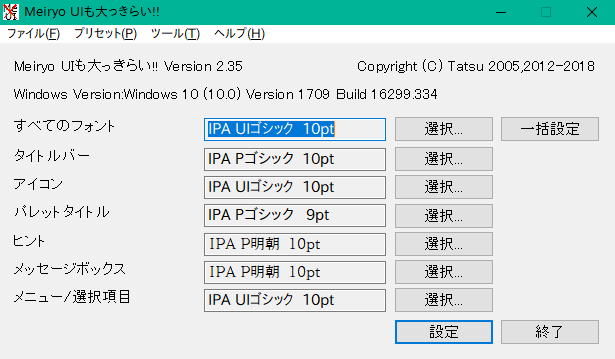
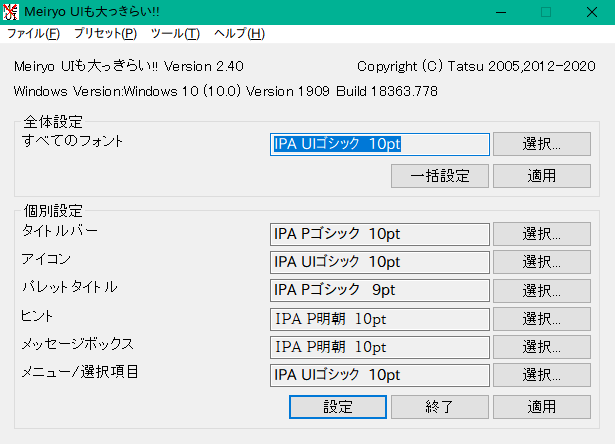
日本語ヘルプをVersion 2.40に合わせて加筆した。

diff --git a/help/ja-jp/contents/02.html b/help/ja-jp/contents/02.html
@@ -1,6 +1,6 @@
 <!DOCTYPE HTML>
 <!--
-noMeiryoUI (C) 2005,2012-2016 Tatsuhiko Shoji
+noMeiryoUI (C) 2005,2012-2020 Tatsuhiko Shoji
 The sources for noMeiryoUI are distributed under the MIT open source license
 -->
 <html>
@@ -29,7 +29,7 @@ The sources for noMeiryoUI are distributed under the MIT open source license
 </p>
 
 <p>
-<img src="noMeiryoUI.PNG" width="615" height="359" alt="Meiryo UIも大っきらい!!画面"><br>
+<img src="noMeiryoUI.PNG" width="615" height="444" alt="Meiryo UIも大っきらい!!画面"><br>
 </p>
 </div>
 <hr>
@@ -40,7 +40,7 @@ The sources for noMeiryoUI are distributed under the MIT open source license
 　フォントを変更する際はフォント名の横にある選択ボタンを押下してください。<br>
 <br>
 　<a href="#FontSel">フォント選択ダイアログ</a>が表示されるので、フォント・フォントサイズ・書式を好みに合わせて設定してください。<br>
-　設定が終わったらOKボタンを押下すると選択したフォントが画面の各部分に設定されます。<br>
+　設定が終わったらOKボタンを押下すると選択したフォントが画面の各部分に設定されてプログラムを終了します。適用ボタンを押下すると選択したフォントが画面の各部分に設定されます。<br>
 </p>
 <p>
 　選択したフォントの中にフォント名が&quot;@&quot;で始まるフォントが存在する場合は選択したフォントが本当に意図したものかどうかの問い合わせダイアログが表示されます。<br>
@@ -52,7 +52,7 @@ The sources for noMeiryoUI are distributed under the MIT open source license
 <h2>2.3 フォントの一括設定</h2>
 <p>
 　一番上に表示されている「すべてのフォント」という項目は画面の各部分のフォントを同じフォント・フォントサイズ・書式で設定するための項目です。<br>
-　フォント名の横の選択ボタンを押下して、<a href="#FontSel">フォント選択ダイアログ</a>からフォントを選択した後、一括設定ボタンを押下すると画面の各部分のフォントが同じフォント・フォントサイズ・書式で設定されます。<br>
+　フォント名の横の選択ボタンを押下して、<a href="#FontSel">フォント選択ダイアログ</a>からフォントを選択した後、一括設定ボタンを押下すると画面の各部分のフォントが同じフォント・フォントサイズ・書式で設定されてプログラムを終了します。適用ボタンを押下すると選択したフォントが画面の各部分に設定されます。<br>
 </p>
 <p>
 　選択したフォントのフォント名が&quot;@&quot;で始まる場合は選択したフォントが本当に意図したものかどうかの問い合わせダイアログが表示されます。<br>

diff --git a/help/ja-jp/contents/01.html b/help/ja-jp/contents/01.html
@@ -1,6 +1,6 @@
 <!DOCTYPE HTML>
 <!--
-noMeiryoUI (C) 2005,2012-2017 Tatsuhiko Shoji
+noMeiryoUI (C) 2005,2012-2020 Tatsuhiko Shoji
 The sources for noMeiryoUI are distributed under the MIT open source license
 -->
 <html>
@@ -56,13 +56,19 @@ The sources for noMeiryoUI are distributed under the MIT open source license
 <td>Chinese (Simplified)_China.lng</td><td>簡体字中国語で動作させるときのメッセージを記述したファイルです。</td>
 </tr>
 <tr>
+<td>Chinese (Traditional)_Taiwan.lng</td><td>繁体字中国語で動作させるときのメッセージを記述したファイルです。</td>
+</tr>
+<tr>
 <td>English.lng</td><td>英語で動作させるときのメッセージを記述したファイルです。</td>
 </tr>
 <tr>
 <td>Korean.lng</td><td>韓国語で動作させるときのメッセージを記述したファイルです。</td>
 </tr>
 <tr>
-<td>default.lng</td><td>日本語、英語、簡体字中国語、韓国語以外で動作させるときのメッセージを英語で記述したファイルです。</td>
+<td>Portuguese_Brazil.lng</td><td>ポルトガル語(ブラジル)で動作させるときのメッセージを記述したファイルです。</td>
+</tr>
+<tr>
+<td>default.lng</td><td>日本語および上記以外の言語で動作させるときのメッセージを英語で記述したファイルです。</td>
 </tr>
 <tr>
 <td>Japanese.chm</td><td>日本語版ヘルプファイルです。</td>
@@ -71,13 +77,16 @@ The sources for noMeiryoUI are distributed under the MIT open source license
 <td>Chinese (Simplified)_China.chm</td><td>簡体字中国語版ヘルプファイルです。</td>
 </tr>
 <tr>
+<td>Chinese (Traditional)_Taiwan.chm</td><td>繁体字中国語版ヘルプファイルです。</td>
+</tr>
+<tr>
 <td>English.chm</td><td>英語版ヘルプファイルです。</td>
 </tr>
 <tr>
 <td>Korean.chm</td><td>韓国語版ヘルプファイルです。</td>
 </tr>
 <tr>
-<td>default.chm</td><td>日本語、英語、簡体字中国語、韓国語以外で動作させるときのヘルプファイルです。</td>
+<td>default.chm</td><td>日本語および上記以外の言語で動作させるときのヘルプファイルです。</td>
 </tr>
 <tr>
 <td>src.zip</td><td>本ソフトのソースファイルです。<br>通常は使用しませんが、本ソフトの動作を調べたい場合やプログラムを改良したい場合に使用します。</td>

diff --git a/help/ja-jp/contents/03.html b/help/ja-jp/contents/03.html
@@ -1,6 +1,6 @@
 <!DOCTYPE HTML>
 <!--
-noMeiryoUI (C) 2005,2012-2019 Tatsuhiko Shoji
+noMeiryoUI (C) 2005,2012-2020 Tatsuhiko Shoji
 The sources for noMeiryoUI are distributed under the MIT open source license
 -->
 <html>
@@ -21,6 +21,17 @@ The sources for noMeiryoUI are distributed under the MIT open source license
 <h1>3.製作履歴</h1>
 
 <div class="chapter">
+<h2>2020/05/xx Version 2.40</h2>
+<ul>
+<li>フォントの設定だけを行い、プログラムを終了しない適用ボタンを追加しました。</li>
+<li>ウインドウの項目を全体設定と個別設定でグループ化しました。</li>
+<li>カレントディレクトリの設定ファイルを読み込めない不具合を修正しました。</li>
+</ul>
+</div>
+
+<hr>
+
+<div class="chapter">
 <h2>2020/01/13 Version 2.36</h2>
 <ul>
 <li>一括設定ボタンを押したときもアプリケーションを終了するようにしました。</li>
@@ -29,6 +40,7 @@ The sources for noMeiryoUI are distributed under the MIT open source license
 <li>Version 2.35で入れ忘れていた簡体字中国語訳を入れました。</li>
 </ul>
 </div>
+
 <hr>
 
 <div class="chapter">

diff --git a/help/ja-jp/contents/04.html b/help/ja-jp/contents/04.html
@@ -1,6 +1,6 @@
 <!DOCTYPE HTML>
 <!--
-noMeiryoUI (C) 2005,2012-2018 Tatsuhiko Shoji
+noMeiryoUI (C) 2005,2012-2020 Tatsuhiko Shoji
 The sources for noMeiryoUI are distributed under the MIT open source license
 -->
 <html>
